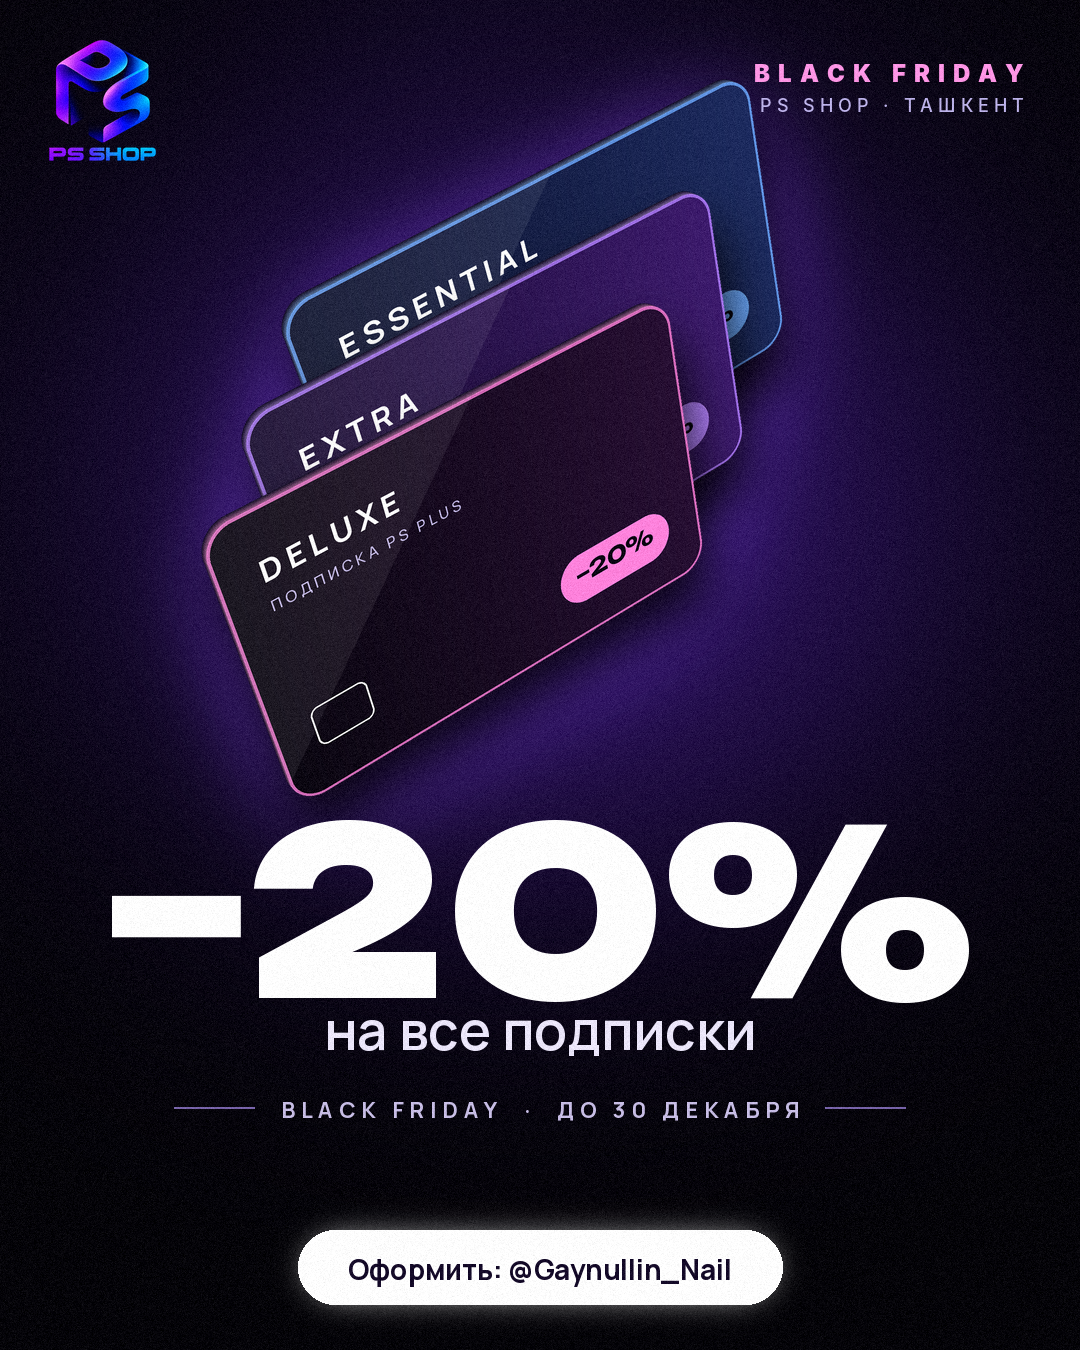
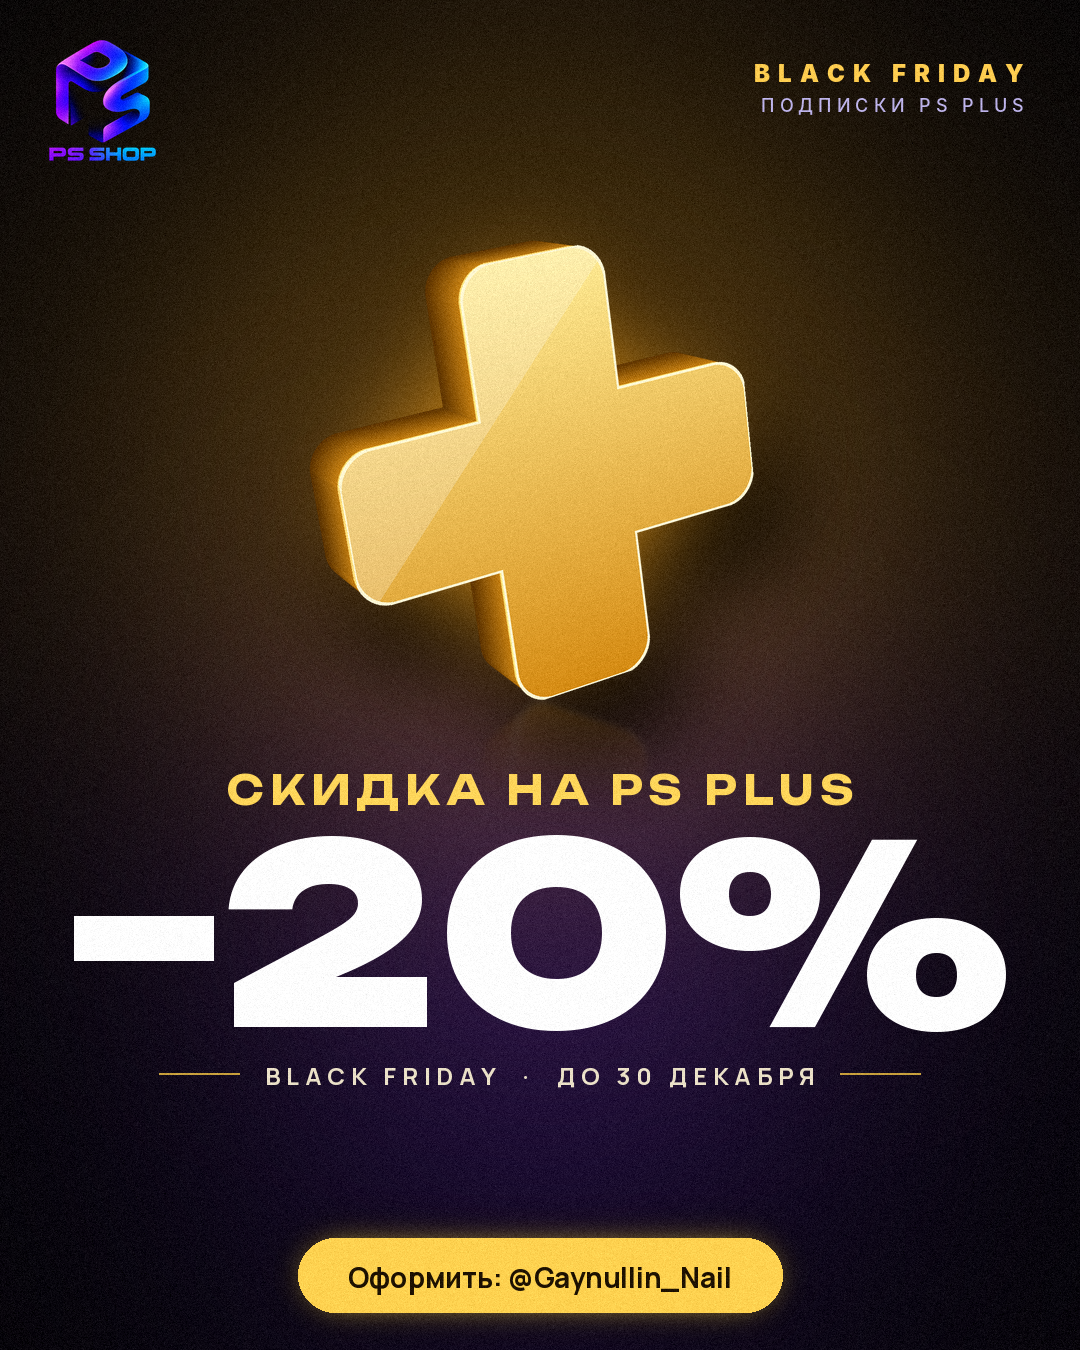
Black Friday v2: золотой 3D-плюс PS Plus, цены цитатами
Claude-Session: https://claude.ai/code/session_014Ko8ozEX2o5gHUgYNiyXBL

diff --git a/designer/posts/2026-11-17-blackfriday-subs/post.html b/designer/posts/2026-11-17-blackfriday-subs/post.html
@@ -1,24 +1,20 @@
-🔥<b>BLACK FRIDAY: −20% НА ВСЕ ПОДПИСКИ</b>🔥
+🔥<b>BLACK FRIDAY: −20% НА ПОДПИСКИ</b>🔥
 
-🎮<b>PS Plus Essential</b>
-1 мес: <s>269 000</s> <b>219 000 UZS</b>
+➕<b>PS PLUS ESSENTIAL</b>
+<blockquote>1 мес: <s>269 000</s> <b>219 000 UZS</b>
 3 мес: <s>429 000</s> <b>349 000 UZS</b>
-12 мес: <s>629 000</s> <b>509 000 UZS</b>
-
-🎮<b>PS Plus Extra</b>
-1 мес: <s>309 000</s> <b>249 000 UZS</b>
+12 мес: <s>629 000</s> <b>509 000 UZS</b></blockquote>
+➕<b>PS PLUS EXTRA</b>
+<blockquote>1 мес: <s>309 000</s> <b>249 000 UZS</b>
 3 мес: <s>629 000</s> <b>509 000 UZS</b>
-12 мес: <s>979 000</s> <b>789 000 UZS</b>
-
-🎮<b>PS Plus Deluxe</b>
-1 мес: <s>389 000</s> <b>319 000 UZS</b>
+12 мес: <s>979 000</s> <b>789 000 UZS</b></blockquote>
+➕<b>PS PLUS DELUXE</b>
+<blockquote>1 мес: <s>389 000</s> <b>319 000 UZS</b>
 3 мес: <s>699 000</s> <b>559 000 UZS</b>
-12 мес: <s>1 268 000</s> <b>1 019 000 UZS</b>
-
-🎮<b>EA Play</b>
-1 мес: <s>179 000</s> <b>149 000 UZS</b>
-12 мес: <s>659 000</s> <b>529 000 UZS</b>
-
+12 мес: <s>1 268 000</s> <b>1 019 000 UZS</b></blockquote>
+🎮<b>EA PLAY</b>
+<blockquote>1 мес: <s>179 000</s> <b>149 000 UZS</b>
+12 мес: <s>659 000</s> <b>529 000 UZS</b></blockquote>
 🗓 До 30 декабря 23:59
 
 <b>жми 👉<a href="https://t.me/xpsshopotziv">ОТЗЫВЫ</a> 🔥</b>

diff --git a/designer/scripts/post_blackfriday_psplus.py b/designer/scripts/post_blackfriday_psplus.py
@@ -1,0 +1,46 @@
+# Black Friday −20% на PS Plus: объёмный золотой «плюс» (своя форма, не логотип Sony) + огромное −20%.
+import sys; sys.path.insert(0, "scripts")
+from psfx import *
+
+W, H = POST
+bg = neon_bg((W, H), blobs=[((180, 150, 900, 760), (120, 82, 10), 200), ((300, 700, 800, 1200), (60, 22, 120), 220)], base=(6, 5, 8))
+
+# ---------- 3D-плюс
+P, T, R = 440, 150, 34          # размер, толщина перекладины, скругление
+face = Image.new("RGBA", (P * SS, P * SS), (0, 0, 0, 0))
+m = Image.new("L", face.size, 0); md = ImageDraw.Draw(m)
+a, b = (P - T) / 2 * SS, (P + T) / 2 * SS
+md.rounded_rectangle((a, 0, b, P * SS - 1), R * SS, fill=255)
+md.rounded_rectangle((0, a, P * SS - 1, b), R * SS, fill=255)
+gold = grad(Image.new("RGBA", face.size, (255, 255, 255, 255)), (255, 236, 150), (214, 140, 20), axis=0)
+face.alpha_composite(gold); face.putalpha(m)
+# блик и кромка
+hl = Image.new("RGBA", face.size, (0, 0, 0, 0))
+ImageDraw.Draw(hl).polygon([(0, 0), (int(face.width * .7), 0), (0, int(face.height * .7))], fill=(255, 255, 255, 60))
+hl.putalpha(ImageChops.multiply(hl.split()[3], m)); face.alpha_composite(hl)
+edge = m.filter(ImageFilter.FIND_EDGES).filter(ImageFilter.MaxFilter(5))
+e = Image.new("RGBA", face.size, (255, 248, 210, 255)); e.putalpha(edge.point(lambda v: min(255, v * 2))); face.alpha_composite(e)
+cam = Cam(W / 2, 470, yaw=-24, pitch=16, roll=-8, focal=1500, scale=1.0)
+plus = box3d(face, m, cam, (W, H), depth=90, w=P, h=P, side=((90, 50, 0), (200, 130, 20)), rim=(255, 220, 120), layers=40)
+shadow(bg, plus, (0, 0), (30, 60), 40, 0.9)
+glow(bg, plus, (0, 0), 70, 1, (255, 170, 30))
+bg.alpha_composite(plus)
+reflection(bg, plus, plus.getbbox()[3] - 6, strength=0.16, fade=0.22, blur=4)
+
+# ---------- плоский текст
+d = ImageDraw.Draw(bg)
+tag = text_img("СКИДКА НА PS PLUS", font("unbounded", 40, "Bold"), (255, 214, 90, 255), pad=6, tracking=6)
+bg.alpha_composite(tag, ((W - tag.width) // 2, 770))
+big = text_img("−20%", font("unbounded", 250, "Black"), pad=10)
+bx, by = (W - big.width) // 2, 830
+bg.alpha_composite(big, (bx, by))
+d = ImageDraw.Draw(bg)
+ly = by + big.height + 22
+lw = lined(d, ly, "BLACK FRIDAY  ·  ДО 30 ДЕКАБРЯ", font("manrope", 24, "Bold"), fill=(235, 225, 200), sp=6, line=(200, 160, 60))
+cta = cta_pill(bg, W / 2, H - 112, "Оформить: @Gaynullin_Nail", font("manrope", 28, "Bold"), fill=(255, 210, 80), color=(30, 18, 0))
+
+header(bg, right_top="BLACK FRIDAY", right_sub="ПОДПИСКИ PS PLUS", top_color=(255, 205, 80))
+check({"tag": ((W - tag.width) / 2, 770, (W + tag.width) / 2, 770 + tag.height), "−20%": (bx, by, bx + big.width, by + big.height),
+       "line": ((W - lw) / 2 - 106, ly, (W + lw) / 2 + 106, ly + 26), "cta": cta})
+out = grain(bg, 5, seed=4); out.save("output/ps_shop_blackfriday_psplus.png")
+preview(out, sys.argv[1] if len(sys.argv) > 1 else "output/_preview.png")

diff --git a/designer/scripts/psfx.py b/designer/scripts/psfx.py
@@ -194,10 +194,10 @@ def logo(height=132, path=None):
     lg = Image.fromarray(np.dstack([a, np.clip((lum - 0.05) * 3.5, 0, 1) * 255]).astype("uint8"), "RGBA")
     return lg.resize((int(lg.width * height / lg.height), height), Image.LANCZOS)
 
-def header(base, right_top="NEW", right_sub="ОНЛАЙН-МАГАЗИН", logo_h=132):
+def header(base, right_top="NEW", right_sub="ОНЛАЙН-МАГАЗИН", logo_h=132, top_color=(255, 150, 230)):
     """Логотип слева сверху + две строки справа."""
     W = base.size[0]; base.alpha_composite(logo(logo_h), (44, 34)); d = ImageDraw.Draw(base)
-    if right_top: spaced(d, (W - 56, 58), right_top, font("black", 24), (255, 150, 230), 8, "r")
+    if right_top: spaced(d, (W - 56, 58), right_top, font("black", 24), top_color, 8, "r")
     if right_sub: spaced(d, (W - 56, 94), right_sub, font("text", 18), (190, 180, 235), 5, "r")
 
 # ---------------------------------------------------------------- 3D

diff --git a/designer/journal.md b/designer/journal.md
@@ -4,7 +4,8 @@
 
 | Дата | Тема | Формат | Схема | Герой (3D) | Шрифты | Палитра | Приёмы | Скрипт | Отзыв владельца |
 |---|---|---|---|---|---|---|---|---|---|
-| 2026-11-17 | Black Friday −20% на подписки | пост | J. Крупный план + стопка (минимализм) | 3 карточки подписок стопкой в 3D | Unbounded Black + Manrope | чёрный, одно фиолетовое свечение | огромная цифра, строка с линиями, CTA-пилюля, плашки −20% на карточках | post_blackfriday_subs.py | — |
+| 2026-11-17 | Black Friday −20% на PS Plus (v2) | пост | B. Объект над словом (минимализм) | объёмный золотой «плюс» (своя форма) | Unbounded + Manrope | чёрный + золото | огромное −20%, «СКИДКА НА PS PLUS», строка с линиями, золотая CTA | post_blackfriday_psplus.py | v1 (карточки) не понравилась: нужен знак PS Plus, чтобы сразу было понятно, что про подписку; цены в тексте цитатами, PS Plus выделять ➕ |
+| 2026-11-17 | Black Friday −20% на подписки (v1) | пост | J. Крупный план + стопка | 3 карточки подписок в 3D | Unbounded Black + Manrope | чёрный | огромная цифра | post_blackfriday_subs.py | не понравилась |
 | 2026-11-17 | У нас открылся сайт | пост | A. Выход из слова | 3D-телефон с psshop.uz | Inter Display Black + Unbounded Medium | тёмный неон | огромное слово, строка-пара, строка с разрядкой и линиями, CTA-пилюля, дуги, искры | post_site_phone3d.py | «Отлично». Хочет 3D-объекты + 2D-текст; логотип не трогать; FreeSerif-курсив не нравится → выбрал Unbounded |
 | 2026-11-17 | У нас открылся сайт (черновик) | пост | C. Веер | скриншоты сайта пластинами | Inter Display Black + FreeSerif Italic | тёмный неон | веер, выход из слова | post_site_fan.py | понравился, но нужен телефон; кубы из логотипа — нельзя |
 | до 2026-11 | Сайт открылся | сторис | B. Слово за объектом | телефон (плоский мокап) | Inter Display Black + FreeSerif Italic | тёмный неон | ретро-сетка, стеклянные плашки, курсор | story_site_phone.py | удачная |

diff --git a/designer/STATE.md b/designer/STATE.md
@@ -1,7 +1,6 @@
 # Текущее состояние (обновлять после каждого этапа)
 
-- 2026-11-17: бот публикации работает. Превью приходит с кнопками ✅/❌ (Cloudflare Worker `psshop`, раздел 4).
-- Воркер задеплоен с отслеживанием статуса и вопросом «что поменять?» после отмены (`/tgpost/status`).
-- Посты в `posts/`: `2026-11-17-sait` (сайт), `2026-11-17-blackfriday-subs` (Black Friday −20% на подписки, до 30.12 23:59, цены с округлением «последняя тысяча 9»).
-- Ждёт: превью Black Friday отправлено владельцу старыми кнопками (без статуса) — при необходимости отправить заново.
-- Открытый вопрос безопасности: `worker/vars.json` содержит SHEET_TOKEN в публичном репозитории — предложено заменить.
+- Бот публикации работает: Claude отправляет превью (workflow publish-post), владелец жмёт ✅ / ❌ в Telegram. После ❌ бот спрашивает «что поменять», статус: `/tgpost/status?post=<папка>&key=<TGPOST_SECRET>` (секрет не хранится между сессиями — см. designer/CLAUDE.md, как сменить).
+- Посты: `posts/2026-11-17-sait` (сайт), `posts/2026-11-17-blackfriday-subs` (v2: золотой 3D-плюс, −20% на PS Plus и EA Play, до 30.12 23:59; цены «последняя тысяча 9»; цены цитатами).
+- Ждёт: оценка владельцем превью Black Friday v2.
+- Открыто: `worker/vars.json` содержит SHEET_TOKEN в публичном репозитории — предложено заменить.

diff --git a/designer/CLAUDE.md b/designer/CLAUDE.md
@@ -12,6 +12,7 @@
 - Креатив обязателен: однотипных картинок быть не должно.
 - Стиль владельца: **3D-объекты + плоский 2D-текст**. Предметы объёмные (толщина, перспектива, тени, отражения), текст плоский, чёткий, без 3D-эффектов.
 - **Шрифты:** FreeSerif Italic владельцу не нравится, не использовать. Для подзаголовка-пары владелец выбрал Unbounded (Medium, строчные).
+- **Подписки PS Plus:** на картинке должно быть сразу видно, что это про подписку: свой объёмный золотой «плюс» + надпись «PS PLUS» (не копировать логотип Sony/PlayStation/PS Plus). Пример: `scripts/post_blackfriday_psplus.py`.
 - **Логотип не трогать:** только слева сверху, как есть. Не делать из куба логотипа 3D-декор и героя.
 - Для темы «сайт» 3D-героем делать объёмный телефон с открытым psshop.uz (`scripts/post_site_phone3d.py`).
 - Владельцу отправлять **только итоговую картинку**. Черновики проверять в уменьшенном виде и не показывать.

diff --git a/designer/.claude/skills/psshop-telegram-posts/SKILL.md b/designer/.claude/skills/psshop-telegram-posts/SKILL.md
@@ -10,6 +10,7 @@ description: Write Telegram channel posts for PS SHOP (@psshopgo): game listings
 ## Общие правила текста
 - **Коротко.** Пост читается за 5 секунд: заголовок, 1 строка сути, 3–4 пункта, ссылка, низ.
 - **Без длинных тире «—»** (и без «–»): владелец их не любит. Пиши через точку, двоеточие или новую строку.
+- **Цены цитатой:** списки цен оформлять `<blockquote>`, старая цена `<s>`, новая `<b>`. PS Plus в тексте выделять премиум-эмодзи ➕ и КАПСОМ (PS PLUS ESSENTIAL).
 - **Нижний блок ссылок жирным:** `<b>жми 👉<a>ОТЗЫВЫ</a> 🔥</b>`, `<b>🛒 <a>НАПИСАТЬ НАМ</a></b>`.
 - Эмодзи бери в первую очередь из любимых премиум-эмодзи владельца (`emoji_owner.json`): 🎉 💥 🔥 📰 🤩 😍 ↪ 🛒 🪙 👉 🎮 🕔 💵 🗓 ‼ ❗ 🇷🇺 🅱 ❤ 📆 👀 👍 🌃 🧩 📱 😣; дальше из `emoji.json`. Эмодзи, которых нет в `emoji.json` (например 🎉), не ставить: они останутся обычными.
 - Контакт для заказа всегда один: **@Gaynullin_Nail** (жирным).
